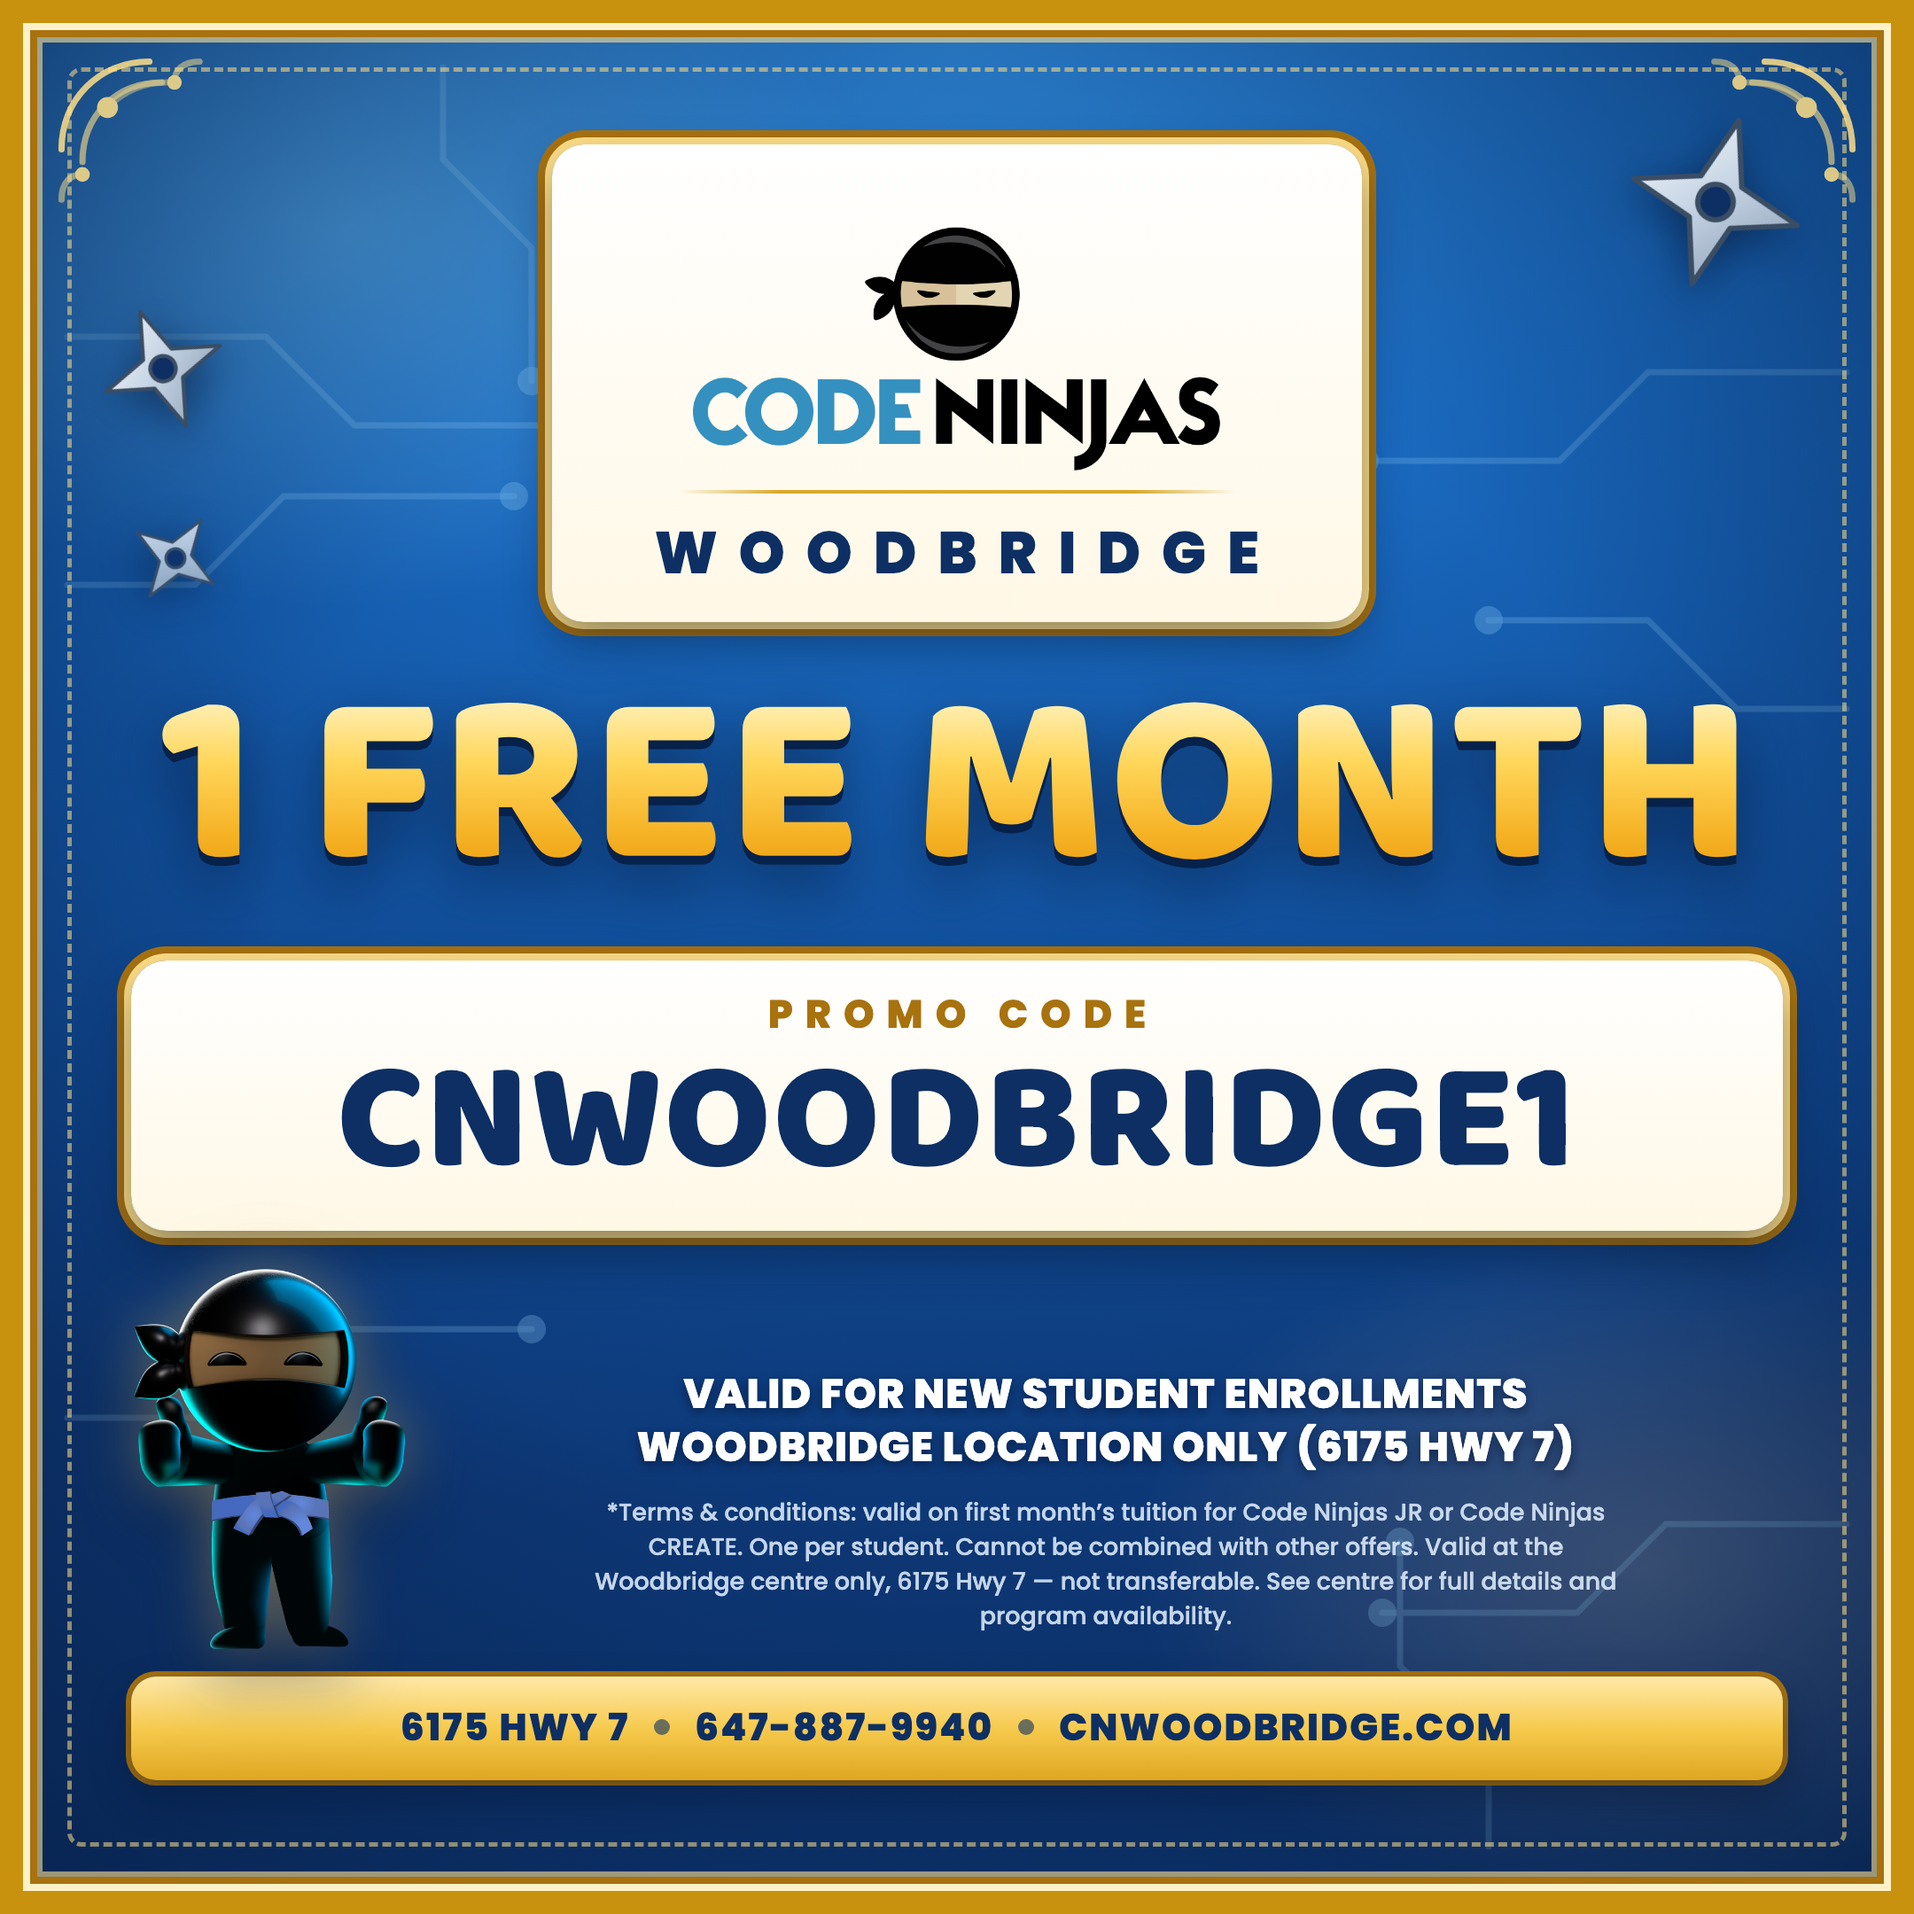
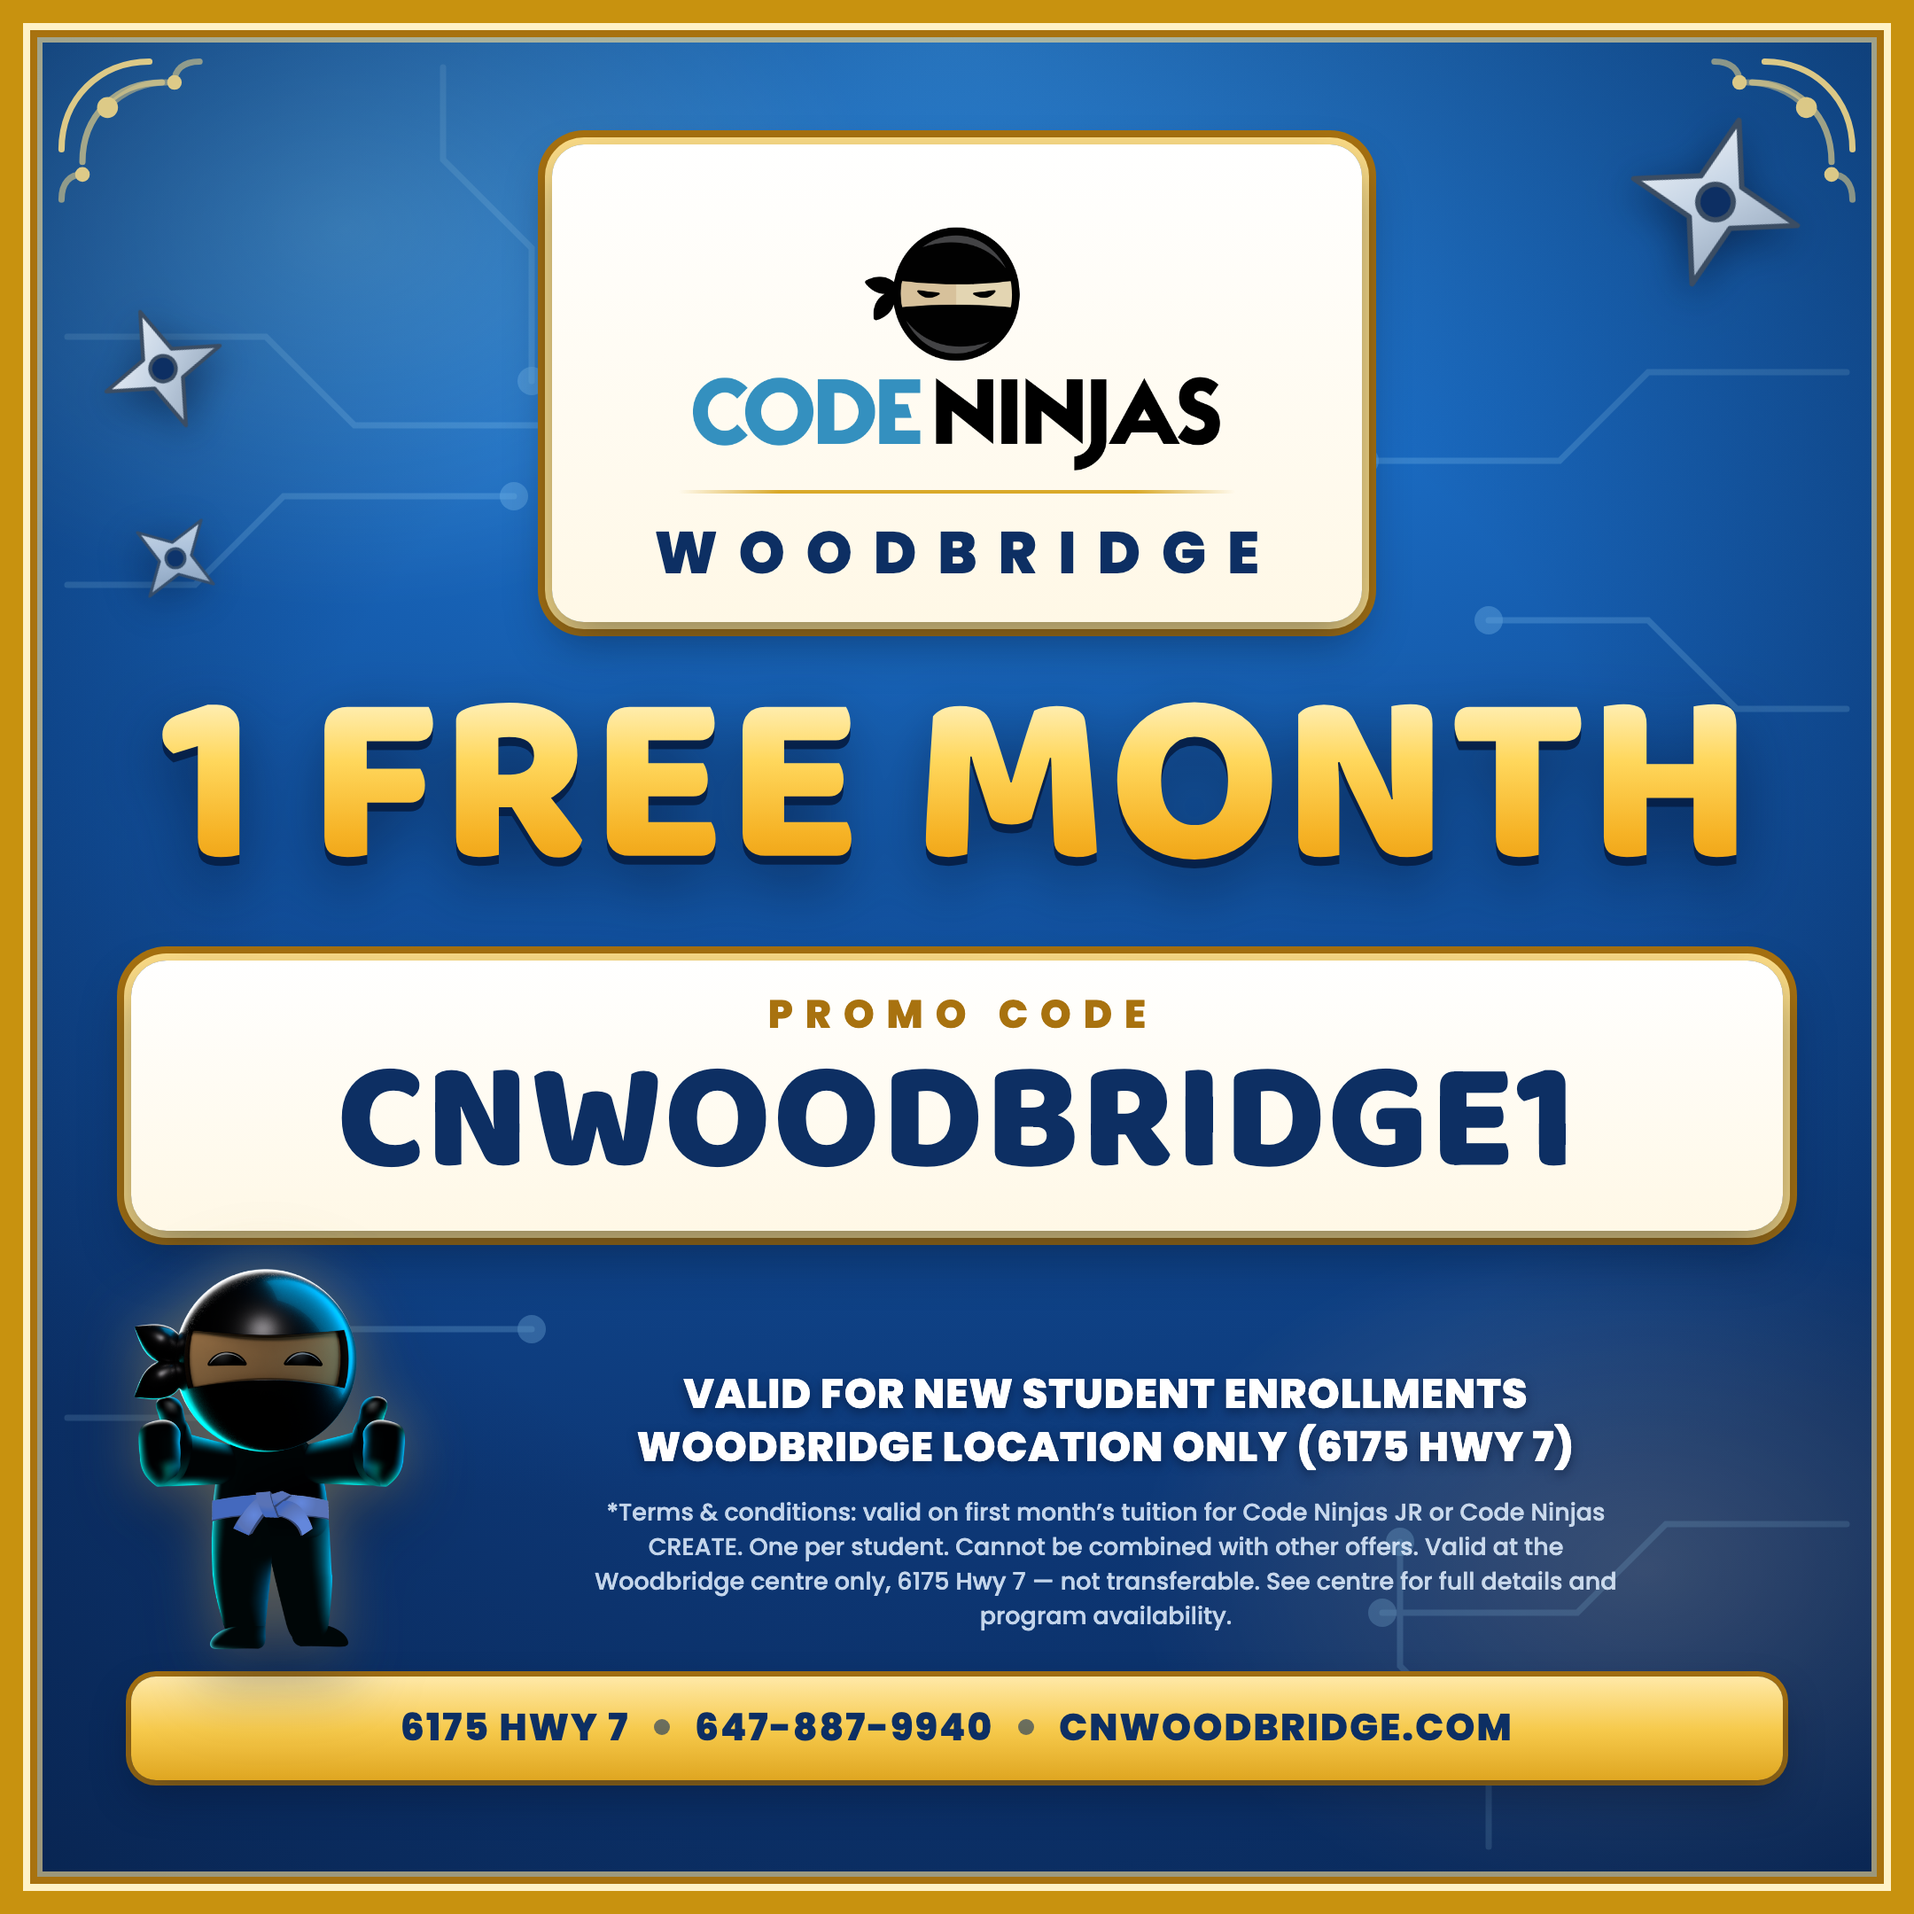
Coupon: drop the dashed perimeter
Removes .rule and its element — the dashed gold line inset 38px from the edge.

It read as a second frame just inside the real one, and the engraved gold rim
is already doing that job with four inset rings. The corner flourishes stay;
they sit in the field rather than tracing the edge, so they were never part of
the doubling.

Re-rendered to 2160x2160.

Claude-Session: https://claude.ai/code/session_01CaRgcd1PioR1xNEP6x7bJF

diff --git a/print/coupon/coupon.html b/print/coupon/coupon.html
@@ -41,10 +41,6 @@
       0 0 0 21px #a8720f inset,                  /* deep gold       */
       0 0 0 24px rgba(255,226,150,.6) inset;     /* highlight       */
   }
-  .rule {
-    position:absolute; inset:38px; z-index:6; pointer-events:none;
-    border:2.5px dashed rgba(255,223,135,.55); border-radius:8px;
-  }
   .corner { position:absolute; width:118px; height:118px; z-index:7; opacity:.85; }
   .c-tl { top:30px; left:30px; }
   .c-tr { top:30px; right:30px; transform:scaleX(-1); }
@@ -187,7 +183,6 @@
 
   <!-- engraved frame + filigree corners -->
   <div class="frame"></div>
-  <div class="rule"></div>
   <svg class="corner c-tl" viewBox="0 0 100 100" fill="none">
     <g stroke="#ffdf87" stroke-width="3" stroke-linecap="round">
       <path d="M4 46 C4 22 22 4 46 4"/>
